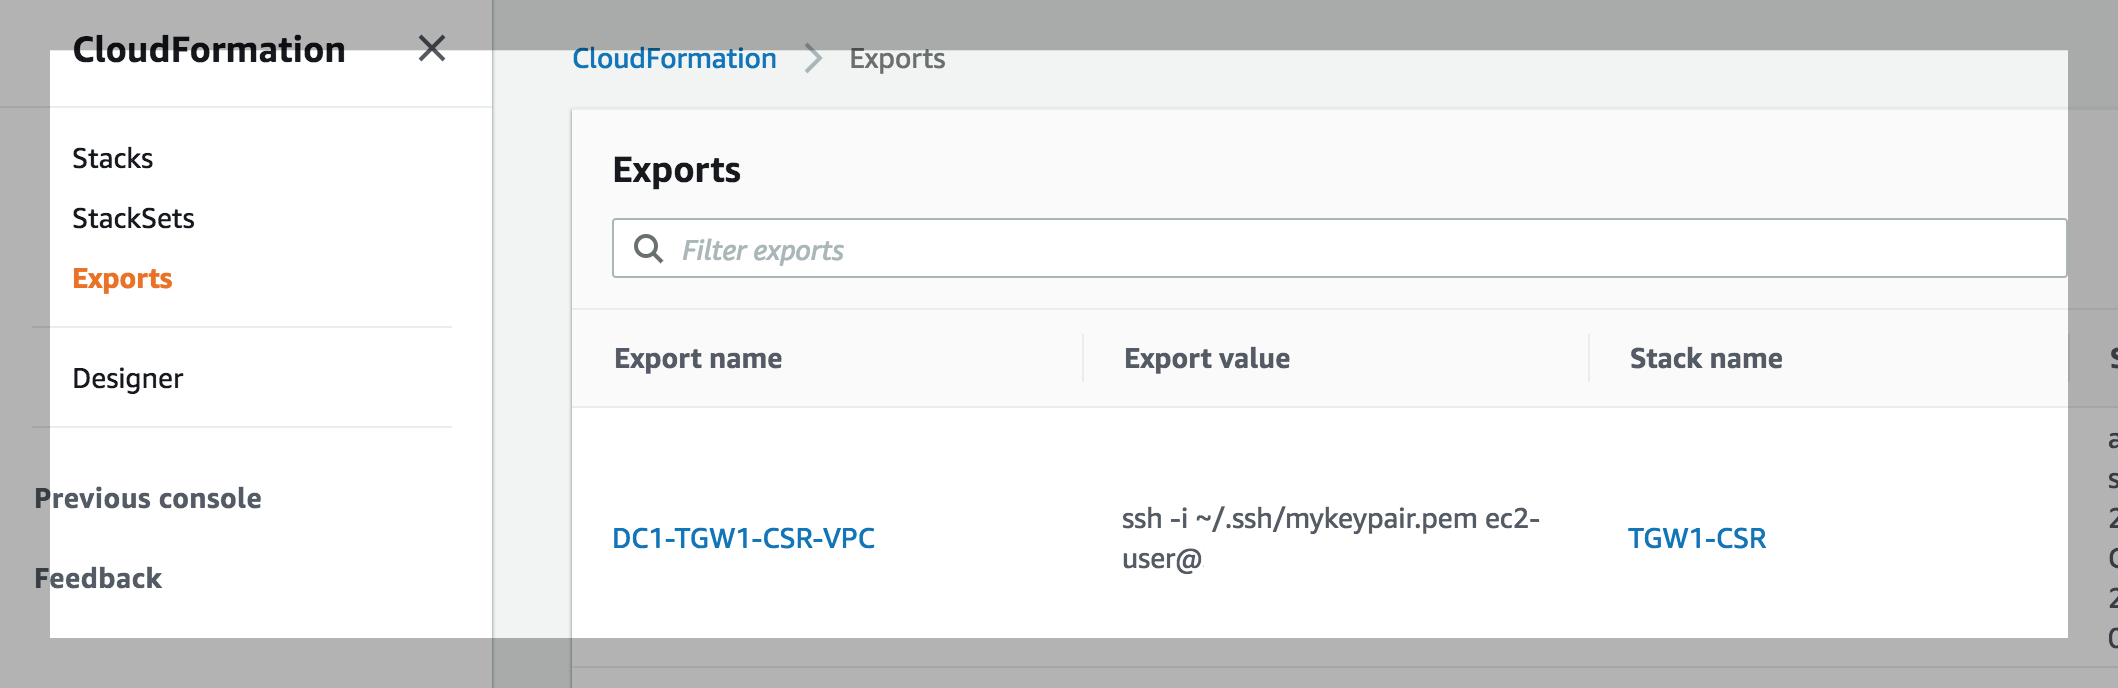
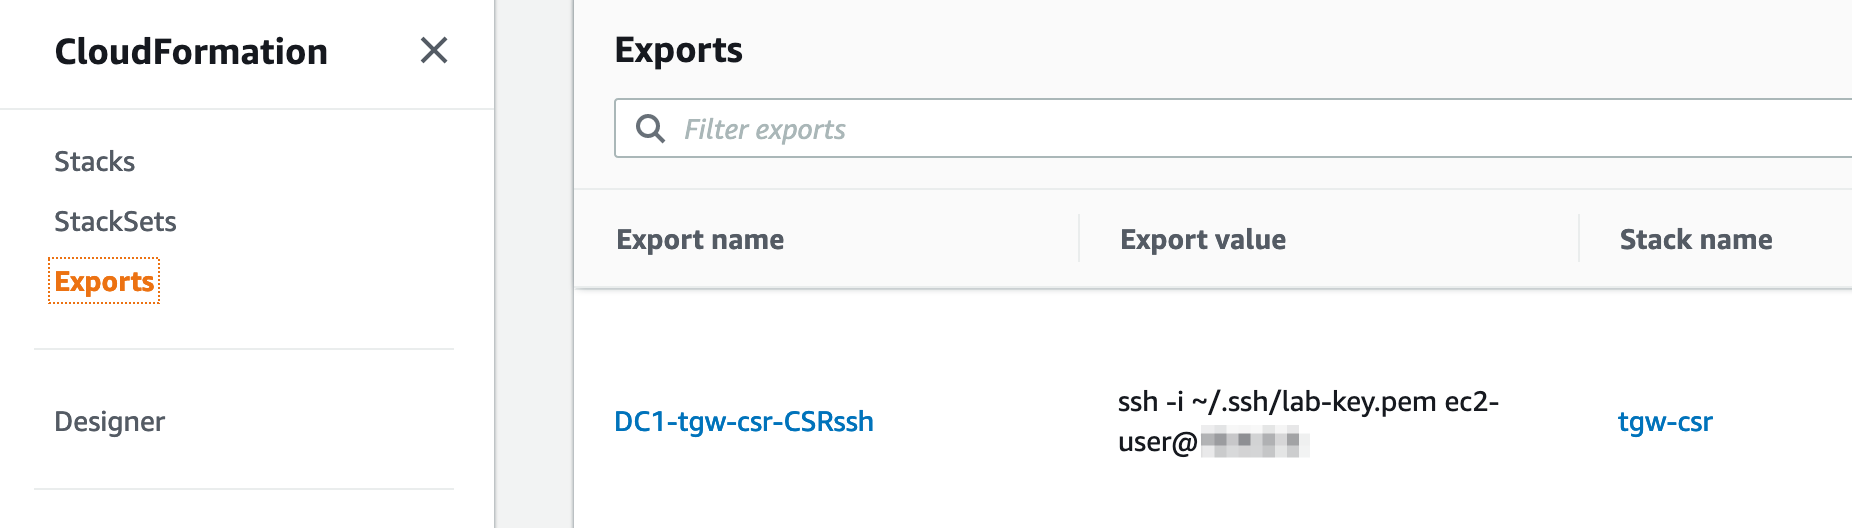
Some small edits to correct a couple of typos and to ensure resource naming in screenshots are consistent. Also changed the language around the CloudFormation Export to make it quicker to grab the ssh command.

diff --git a/2-tgw-vpns/40-vpn-setup.md b/2-tgw-vpns/40-vpn-setup.md
@@ -26,7 +26,7 @@ In a real production environment we would setup a secondary router for redundanc
    - Do not tick Enable Acceleration as we won't be using it for this lab. However, for production environments GA delivers an enhanced VPN experience thanks to the use of anycast endpoints being advertised from our global network of points of presence (POPs) 
   - For **Inside IP CIDR for Tunnel 1** use **169.254.10.0/30** for CIDR.
   - For **Pre-Shared Key for Tunnel 1** use **awsamazon**
-  - For **Inside IP CIDR for Tunnel 2** use **169.254.11.0/30**for CIDR.
+  - For **Inside IP CIDR for Tunnel 2** use **169.254.11.0/30** for CIDR.
   - For **Pre-Shared Key for Tunnel 2** use **awsamazon**
   - Once the page is filled out, click **Create attachment** at the bottom right.
   ![Create VPN Attachment](../images/tgw-createvpnattach.png)
@@ -57,6 +57,7 @@ In a real production environment we would setup a secondary router for redundanc
   ```
  ./createcsr.sh publicip1 publicip2 mycsrconfig.txt
  ```
+_Note: The file 'myscrconfig.txt' is created to capture the output of the 'createcsr.sh' script and does not already exist in the repository._
 _Note: Make sure you put the ip address that lines up with Inside IP CIDR address 169.254.10.0/30 for ip1. This will result in a Cisco configuration file ready to be used_
 
     Example from my Site-to-Site VPN, note your public ips will be different:
@@ -68,7 +69,7 @@ _Note: Make sure you put the ip address that lines up with Inside IP CIDR addres
     ./createcsr.sh 35.166.118.167 52.36.14.223 mycsrconfig.txt
     ```
 
-    _Note: AWS generates starter templates to assist with the configuration for you on-premise router. For your real world deployments, you can get a starter template from the console for various device vendors (Cisco, Juniper, Palo Alto, F5, Checkpoint, etc). You can get those configurations via the "Download configuration" button within the Site-to-Site VPN Connections section explored before
+_Note: AWS generates starter templates to assist with the configuration for you on-premise router. For your real world deployments, you can get a starter template from the console for various device vendors (Cisco, Juniper, Palo Alto, F5, Checkpoint, etc). You can get those configurations via the "Download configuration" button within the Site-to-Site VPN Connections section explored before
 
 1.  On the left hand panel, the output file **mycsrconfig.txt** should be listed. You may have to open the tgwwalk folder to see the txt file. Open the file with **cat** or any alternative and copy all the file content
 

diff --git a/2-tgw-vpns/30-dcrouter-access.md b/2-tgw-vpns/30-dcrouter-access.md
@@ -32,7 +32,7 @@ In order to access Cloud9, follow this simple steps:
 
 1. From another browser tab, navigate again to the Management Console and choose **Services** then select **CloudFormation**.
 
-1. From the left-hand menu, select **Exports** in the left hand menu and find the export for ssh to the CSR: DC1-_stack-name_-CSRssh and copy the **Export value**
+1. From the left-hand menu, select **Exports** in the left hand menu and type **ssh** into the 'Filter exports' box. You will see the Export name: DC1-_stack-name_-CSRssh and should copy the **Export value**
    ![ssh key and ssh to CSR](../images/cloudformation-csrssh.png)
 
 1. Back on the **Cloud9** Browser tab paste this into the bash shell. _Note: in the command you will notice the -i reference to the pem file you just copied, this is the private half of the key pair. The public key is already placed on the Cisco CSR_. Answer **yes** to **Are you sure you want to continue connecting (yes/no)?**
